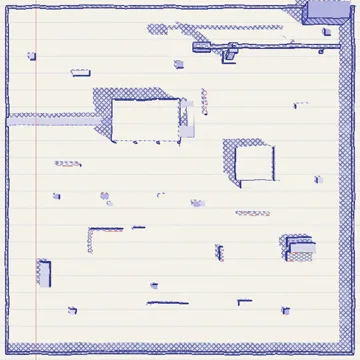
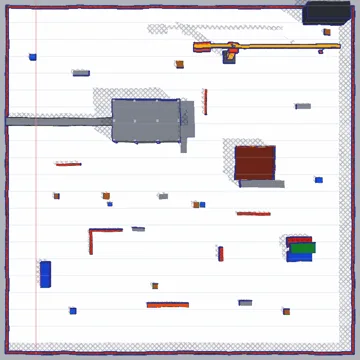
Versus room: draw your fighter, then vote with map photos; Construction Site in color
The room screen now walks through 1) draw your fighter (the pad moves into
the room and changes reach other players live) and 2) vote for the map
with big top-down photo cards. Construction Site's native look is color.

Claude-Session: https://claude.ai/code/session_01B78U2EVmXTGXuxGg6tiw4B

diff --git a/src/versusUi.ts b/src/versusUi.ts
@@ -90,6 +90,7 @@ export function initVersus(ctx: VersusCtx) {
       history.replaceState(null, '', `${location.pathname}${location.search}#room=${code}`);
       $('vs-code').textContent = code;
       $('vs-status').textContent = 'connecting…';
+      padIntoRoom();
       ctx.show('versus');
       render();
       try {
@@ -110,6 +111,7 @@ export function initVersus(ctx: VersusCtx) {
     game.stopVersus();
     ctx.restoreSolo();
     hud.setVersus(false);
+    padHomeAgain();
     history.replaceState(null, '', `${location.pathname}${location.search}`);
     if (toMenu) {
       input.unlock();
@@ -230,23 +232,30 @@ export function initVersus(ctx: VersusCtx) {
     const s = room.state;
     const players = room.sortedPlayers();
     const n = players.length;
-    const voting = s.phase === 'vote';
-    $('vs-vote').style.display = voting ? '' : 'none';
+    const ended = s.phase === 'end';
+    $('vs-setup').style.display = ended ? 'none' : '';
+    $('vs-results').style.display = ended ? '' : 'none';
 
-    if (s.phase === 'end') {
+    if (ended) {
       const top = leader(s.scores);
       const winner = top ? room.players.get(top.id) : null;
       $('vs-title').textContent = winner ? (winner.self ? 'you win!' : `${winner.name} wins!`) : 'round over';
-      $('vs-status').textContent = `round ${s.round} on ${mapInfo(s.map).name}`;
     } else {
       $('vs-title').textContent = 'versus';
+      const me = s.votes[room.selfId];
       $('vs-status').textContent =
-        n < 2 ? 'waiting for friends… send them the code or the invite link' : 'vote for a map. the round starts when everyone has voted.';
+        n < 2
+          ? 'waiting for friends… send them the code or the invite link. draw your fighter while you wait!'
+          : me
+            ? 'voted! waiting for everyone else (you can still change your drawing or vote)'
+            : 'draw your fighter, then vote for a map. the round starts when everyone has voted.';
     }
 
-    const host = $('vs-players');
-    host.innerHTML = '';
-    for (const p of players) {
+    const host = ended ? $('vs-results') : $('vs-players');
+    $('vs-players').innerHTML = '';
+    $('vs-results').innerHTML = '';
+    const ranked = ended ? [...players].sort((a, b) => (s.scores[b.id] ?? 0) - (s.scores[a.id] ?? 0)) : players;
+    for (const p of ranked) {
       const card = document.createElement('div');
       card.className = 'vs-player';
       card.append(thumb(p.id, p.token, p.ink));
@@ -255,13 +264,13 @@ export function initVersus(ctx: VersusCtx) {
       name.style.color = p.ink;
       card.append(name);
       const sub = document.createElement('div');
-      if (s.phase === 'end') {
+      if (ended) {
         sub.className = 'kills';
         sub.textContent = `${s.scores[p.id] ?? 0} kills`;
       } else {
         sub.className = 'vote';
         const v = s.votes[p.id];
-        sub.textContent = v ? `voted ${mapInfo(v).name}` : 'not voted yet';
+        sub.textContent = v ? `✓ ${mapInfo(v).name}` : 'still choosing…';
       }
       card.append(sub);
       if (!p.self && room.mesh.isRelayed(p.id)) {
@@ -287,11 +296,38 @@ export function initVersus(ctx: VersusCtx) {
     if (!room) return;
     const s = room.state;
     const sec = Math.ceil(room.timeLeft / 1000);
-    let t = '';
-    if (s.phase === 'vote' && room.timeLeft > 0) t = `starting in ${sec}s, or as soon as everyone votes`;
-    if (s.phase === 'end') t = `next map vote in ${sec}s`;
-    $('vs-timer').textContent = t;
+    if (s.phase === 'vote') $('vs-timer').textContent = room.timeLeft > 0 ? `starting in ${sec}s, or as soon as everyone votes` : '';
+    if (s.phase === 'end') $('vs-status').textContent = `round ${s.round} on ${mapInfo(s.map).name} · next map vote in ${sec}s`;
   }
+
+  // ── Your fighter: the drawing pad moves into the room while you're in one ──
+  const padEl = $('pad');
+  const padHome = padEl.parentElement!;
+  const padNext = padEl.nextSibling;
+  function padIntoRoom(): void {
+    $('vs-pad-host').append(padEl);
+    pad.setSheet('me');
+    for (const t of Array.from(document.querySelectorAll<HTMLElement>('.tab'))) t.classList.toggle('active', t.dataset.sheet === 'me');
+    pad.ensure('me');
+  }
+  function padHomeAgain(): void {
+    if (padEl.parentElement !== padHome) padHome.insertBefore(padEl, padNext);
+  }
+  let tokenTimer = 0;
+  const prevOnChange = pad.onChange;
+  pad.onChange = () => {
+    prevOnChange();
+    if (!room || pad.sheet !== 'me') return;
+    clearTimeout(tokenTimer);
+    const r = room;
+    tokenTimer = window.setTimeout(async () => {
+      if (room !== r || pad.isEmpty('me')) return;
+      r.setToken(await encodeShare({ enemy: pad.getStrokes('me'), boss: [] }));
+    }, 500);
+  };
+  $('vs-undo').onclick = () => pad.undo();
+  $('vs-clear').onclick = () => pad.clear();
+  $('vs-example').onclick = () => pad.example();
 
   // ── Buttons ──────────────────────────────────────────────────────────
   $('btn-create').onclick = () => {

diff --git a/src/style.css b/src/style.css
@@ -813,7 +813,7 @@ button.big {
   min-height: 0;
 }
 .vs-sheet {
-  width: min(900px, 100%);
+  width: min(1100px, 100%);
   display: flex;
   flex-direction: column;
   gap: 12px;
@@ -880,10 +880,6 @@ button.big {
   align-items: center;
   flex-wrap: wrap;
 }
-.vs-sheet .map-list {
-  grid-template-columns: repeat(5, 1fr);
-  max-width: none;
-}
 .map-shot {
   display: block;
   width: 100%;
@@ -898,8 +894,77 @@ button.big {
   border-color: var(--red);
   box-shadow: 0 0 0 2px var(--red);
 }
-@media (max-width: 800px) {
-  .vs-sheet .map-list {
-    grid-template-columns: repeat(3, 1fr);
+
+
+/* Versus room: 1. draw your fighter  2. vote for the map */
+.vs-leave {
+  margin-left: auto;
+}
+.vs-setup {
+  display: flex;
+  gap: 28px;
+  flex-wrap: wrap;
+  align-items: flex-start;
+}
+.vs-step {
+  display: flex;
+  flex-direction: column;
+  gap: 8px;
+}
+.vs-step-maps {
+  flex: 1 1 420px;
+  min-width: 0;
+}
+.vs-step-title {
+  font-size: 26px;
+}
+.vs-step-title .num {
+  display: inline-grid;
+  place-items: center;
+  width: 34px;
+  height: 34px;
+  margin-right: 4px;
+  color: #fff;
+  background: var(--red);
+  border-radius: 50% 45% 55% 48%;
+  font-size: 22px;
+}
+#vs-pad-host #pad {
+  width: min(280px, 70vw);
+}
+.vs-hint {
+  font-size: 15px;
+  opacity: 0.7;
+  max-width: 280px;
+}
+.vs-maps {
+  display: grid;
+  grid-template-columns: repeat(3, 1fr);
+  gap: 10px;
+}
+.vs-maps .map-btn {
+  opacity: 0.9;
+  padding: 6px;
+  font-size: 19px;
+}
+.vs-maps .map-btn:hover {
+  opacity: 1;
+}
+.vs-maps .map-btn.active {
+  opacity: 1;
+}
+.vs-maps .map-btn .votes {
+  float: right;
+  color: var(--red);
+  font-size: 18px;
+}
+.vs-results {
+  display: flex;
+  gap: 16px;
+  flex-wrap: wrap;
+}
+@media (max-width: 700px) {
+  .vs-maps {
+    grid-template-columns: repeat(2, 1fr);
   }
 }

diff --git a/play/index.html b/play/index.html
@@ -126,18 +126,28 @@
           <h2 id="vs-title">versus</h2>
           <div class="vs-code">code <b id="vs-code"></b></div>
           <button id="vs-copy">copy invite link</button>
+          <button id="vs-leave" class="vs-leave">leave</button>
         </div>
         <p id="vs-status"></p>
-        <div id="vs-players"></div>
-        <div id="vs-vote">
-          <div class="map-label">vote for the map</div>
-          <div id="vs-maps" class="map-list"></div>
+        <div id="vs-setup" class="vs-setup">
+          <div class="vs-step">
+            <div class="vs-step-title"><span class="num">1</span> draw your fighter</div>
+            <div id="vs-pad-host"></div>
+            <div class="btns">
+              <button id="vs-undo">undo</button>
+              <button id="vs-clear">clear</button>
+              <button id="vs-example">example</button>
+            </div>
+            <div class="vs-hint">top quarter = your head (headshots). friends see changes live.</div>
+          </div>
+          <div class="vs-step vs-step-maps">
+            <div class="vs-step-title"><span class="num">2</span> vote for the map</div>
+            <div id="vs-maps" class="vs-maps"></div>
+            <p id="vs-timer"></p>
+            <div id="vs-players"></div>
+          </div>
         </div>
-        <p id="vs-timer"></p>
-        <div class="vs-foot">
-          <button id="vs-leave">leave</button>
-          <span class="sub small">your fighter is your "you (versus)" drawing</span>
-        </div>
+        <div id="vs-results" class="vs-results" style="display: none"></div>
       </div>
     </div>
 

diff --git a/src/world/level.ts b/src/world/level.ts
@@ -19,7 +19,7 @@ export interface MapInfo {
 }
 
 export const MAPS: MapInfo[] = [
-  { id: 'construction', name: 'Construction Site', look: 'ink', blurb: 'the original: scaffold floors, a rooftop and a crane', build: buildConstruction },
+  { id: 'construction', name: 'Construction Site', look: 'color', blurb: 'the original: scaffold floors, a rooftop and a crane', build: buildConstruction },
   { id: 'rooftops', name: 'Rooftops', look: 'ink', blurb: 'roof gaps, launch vents and slide-under ducts', build: buildRooftops },
   { id: 'factory', name: 'Factory', look: 'ink', blurb: 'conveyor belts, steam vents and a catwalk loop', build: buildFactory },
   { id: 'playground', name: 'Playground', look: 'color', blurb: 'trampolines, tube tunnels and a climbing fort', build: buildPlayground },

diff --git a/src/net/versus.ts b/src/net/versus.ts
@@ -140,6 +140,16 @@ export class VersusRoom {
   }
 
   // ── Outgoing ──────────────────────────────────────────────────────────
+  /** My drawing changed: update it everywhere. */
+  setToken(token: string): void {
+    if (token === this.selfToken) return;
+    this.selfToken = token;
+    const me = this.players.get(this.selfId);
+    if (me) me.token = token;
+    this.mesh.broadcast({ t: 'hello', name: this.selfName, token }, true);
+    this.onChange();
+  }
+
   vote(map: MapId): void {
     if (this.state.phase !== 'vote') return;
     this.state.votes[this.selfId] = map;

diff --git a/README.md b/README.md
@@ -42,7 +42,7 @@ Five maps (`src/world/maps/`, registry in `src/world/level.ts`), built from boxe
 
 | Map | Look | Parkour |
 | --- | --- | --- |
-| Construction Site | ink | the original: scaffold floors, stairs, house roof, crane |
+| Construction Site | color | the original: scaffold floors, stairs, house roof, crane |
 | Rooftops | ink | roof-to-roof loop, launch vents, air-con ducts to slide under |
 | Factory | ink | conveyor belts, steam vents up to a catwalk loop, pipe racks, silo + gantry rail |
 | Playground | color | trampolines, crawl tubes (slide through), climbing fort, monkey-bar beam |
